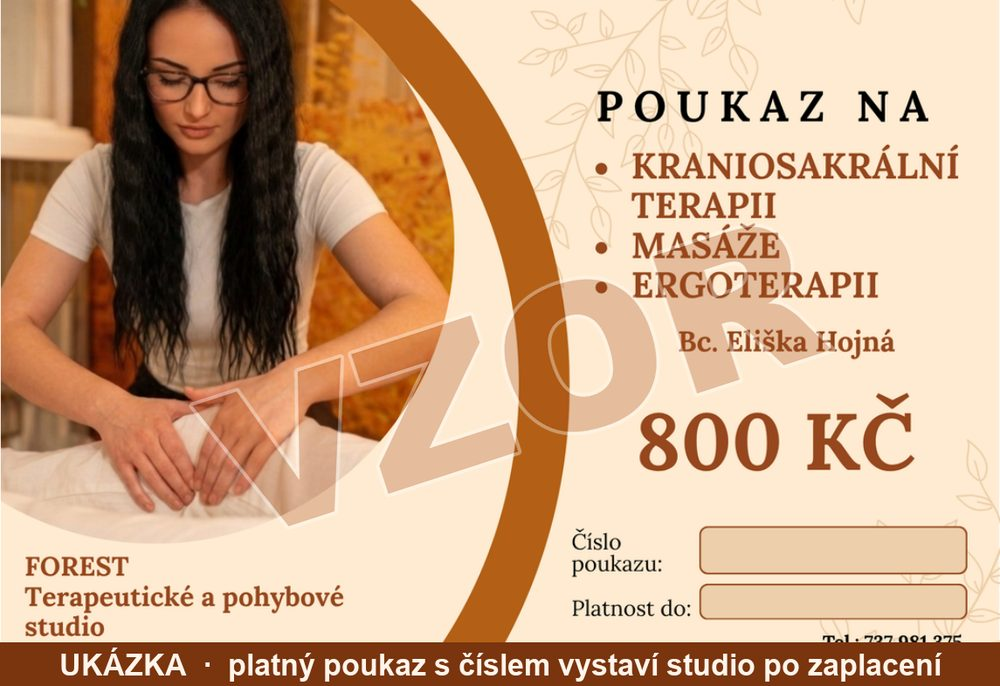
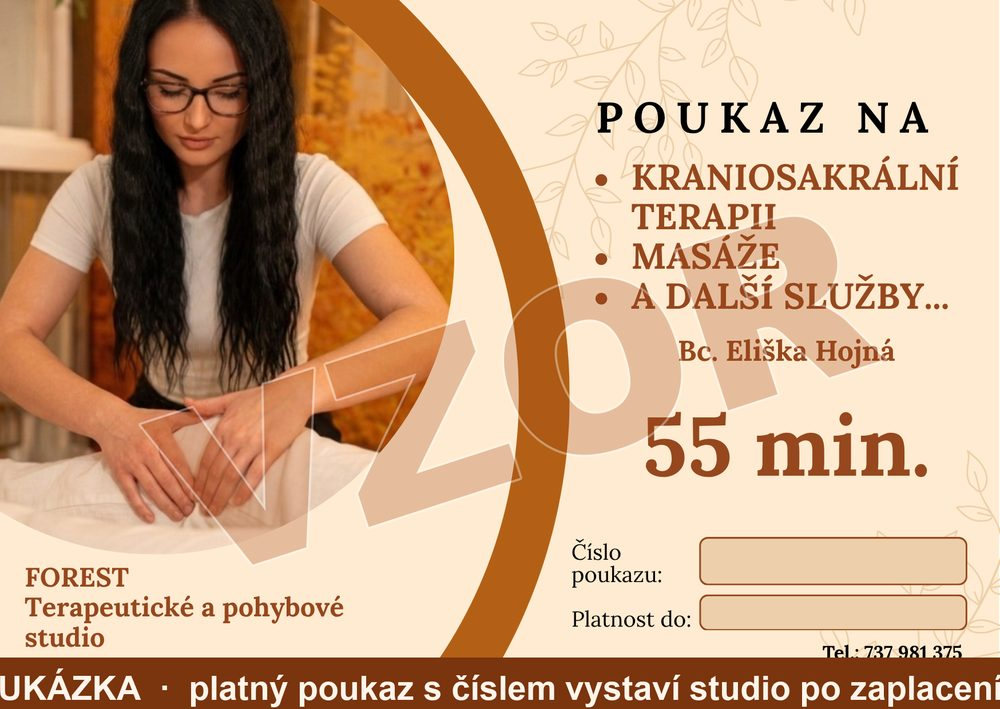
Nové dárkové poukazy (55 minut) a tejpování během terapie v ceníku
- Vyměněny oba poukazy za novou verzi od klienta: hodnotou je nově
  55 minut místo 800 Kč, služby „a další služby…" místo výčtu
- Podle toho upraveny karty, podnadpis sekce, alt texty a hero karta
- Z poukazu zmizela cena → do kroku 1 doplněn odkaz na ceník
- Náhledy opět jen s vodoznakem VZOR a pruhem UKÁZKA (originál na web nejde)
- Ceník: nový řádek Tejpování během terapie — 3 Kč/cm

diff --git a/index.html b/index.html
@@ -150,7 +150,7 @@
     }
     </script>
 
-    <link rel="stylesheet" href="css/style.css?v=13">
+    <link rel="stylesheet" href="css/style.css?v=14">
 </head>
 <body>
 
@@ -282,7 +282,7 @@
                 <span class="hero-info-icon" aria-hidden="true">
                     <svg width="20" height="20" viewBox="0 0 24 24" fill="none" stroke="currentColor" stroke-width="2" stroke-linecap="round" stroke-linejoin="round"><polyline points="20 12 20 22 4 22 4 12"/><rect x="2" y="7" width="20" height="5"/><line x1="12" y1="22" x2="12" y2="7"/><path d="M12 7H7.5a2.5 2.5 0 0 1 0-5C11 2 12 7 12 7z"/><path d="M12 7h4.5a2.5 2.5 0 0 0 0-5C13 2 12 7 12 7z"/></svg>
                 </span>
-                <span class="hero-info-text"><strong>Dárkové poukazy</strong><span>800 Kč</span></span>
+                <span class="hero-info-text"><strong>Dárkové poukazy</strong><span>55 minut</span></span>
             </a>
         </aside>
     </div>
@@ -612,6 +612,11 @@
                         <td>Tejpování (tejp v&nbsp;ceně)</td>
                         <td class="price-cell">500 Kč</td>
                         <td class="duration-cell">25 min</td>
+                    </tr>
+                    <tr>
+                        <td>Tejpování během terapie</td>
+                        <td class="price-cell">3&nbsp;Kč/cm</td>
+                        <td class="duration-cell">—</td>
                     </tr>
                 </tbody>
             </table>
@@ -951,30 +956,30 @@
         <header class="section-header">
             <span class="section-tag">Dárkové poukazy</span>
             <h2>Darujte péči o&nbsp;tělo</h2>
-            <p>Poukaz na terapii nebo masáž v&nbsp;hodnotě 800&nbsp;Kč — dárek, který potěší tělo i&nbsp;hlavu.</p>
+            <p>Poukaz na 55&nbsp;minut terapie nebo masáže podle vlastního výběru — dárek, který potěší tělo i&nbsp;hlavu.</p>
         </header>
 
         <div class="voucher-grid">
 
             <article class="voucher-card" data-animate>
                 <picture>
-                    <source srcset="fotky/poukaz-eliska-vzor.webp" type="image/webp">
+                    <source srcset="fotky/poukaz-eliska-vzor.webp?v=2" type="image/webp">
                     <img
-                        src="fotky/poukaz-eliska-vzor.jpg"
-                        alt="Vzor dárkového poukazu na kraniosakrální terapii, masáže a ergoterapii u Bc. Elišky Hojné"
+                        src="fotky/poukaz-eliska-vzor.jpg?v=2"
+                        alt="Vzor dárkového poukazu na 55 minut kraniosakrální terapie, masáže a dalších služeb u Bc. Elišky Hojné"
                         class="voucher-img"
                         loading="lazy"
                         width="1000"
-                        height="686"
+                        height="709"
                     >
                 </picture>
                 <div class="voucher-body">
                     <div class="voucher-head">
                         <div>
                             <h3>Bc. Eliška Hojná</h3>
-                            <p class="voucher-services">Kraniosakrální terapie · masáže · ergoterapie</p>
+                            <p class="voucher-services">Kraniosakrální terapie · masáže · a&nbsp;další služby</p>
                         </div>
-                        <span class="voucher-price">800&nbsp;Kč</span>
+                        <span class="voucher-price">55&nbsp;minut</span>
                     </div>
                     <a href="tel:+420737981375" class="btn btn-primary btn-full">
                         <svg width="18" height="18" viewBox="0 0 24 24" fill="none" stroke="currentColor" stroke-width="2" stroke-linecap="round" stroke-linejoin="round" aria-hidden="true"><path d="M22 16.92v3a2 2 0 0 1-2.18 2 19.79 19.79 0 0 1-8.63-3.07A19.5 19.5 0 0 1 4.69 12 19.79 19.79 0 0 1 1.61 3.37 2 2 0 0 1 3.6 1.18h3a2 2 0 0 1 2 1.72c.127.96.361 1.903.7 2.81a2 2 0 0 1-.45 2.11L7.91 8.9a16 16 0 0 0 6 6l.95-.95a2 2 0 0 1 2.11-.45 12.84 12.84 0 0 0 2.81.7A2 2 0 0 1 22 16.92z"/></svg>
@@ -985,10 +990,10 @@
 
             <article class="voucher-card" data-animate>
                 <picture>
-                    <source srcset="fotky/poukaz-adam-vzor.webp" type="image/webp">
+                    <source srcset="fotky/poukaz-adam-vzor.webp?v=2" type="image/webp">
                     <img
-                        src="fotky/poukaz-adam-vzor.jpg"
-                        alt="Vzor dárkového poukazu na fyzioterapii a masáže u Mgr. Adama Krbečka"
+                        src="fotky/poukaz-adam-vzor.jpg?v=2"
+                        alt="Vzor dárkového poukazu na 55 minut fyzioterapie, masáže a dalších služeb u Mgr. Adama Krbečka"
                         class="voucher-img"
                         loading="lazy"
                         width="1000"
@@ -999,9 +1004,9 @@
                     <div class="voucher-head">
                         <div>
                             <h3>Mgr. Adam Krbeček</h3>
-                            <p class="voucher-services">Fyzioterapie · masáže</p>
+                            <p class="voucher-services">Fyzioterapie · masáže · a&nbsp;další služby</p>
                         </div>
-                        <span class="voucher-price">800&nbsp;Kč</span>
+                        <span class="voucher-price">55&nbsp;minut</span>
                     </div>
                     <a href="tel:+420774839093" class="btn btn-primary btn-full">
                         <svg width="18" height="18" viewBox="0 0 24 24" fill="none" stroke="currentColor" stroke-width="2" stroke-linecap="round" stroke-linejoin="round" aria-hidden="true"><path d="M22 16.92v3a2 2 0 0 1-2.18 2 19.79 19.79 0 0 1-8.63-3.07A19.5 19.5 0 0 1 4.69 12 19.79 19.79 0 0 1 1.61 3.37 2 2 0 0 1 3.6 1.18h3a2 2 0 0 1 2 1.72c.127.96.361 1.903.7 2.81a2 2 0 0 1-.45 2.11L7.91 8.9a16 16 0 0 0 6 6l.95-.95a2 2 0 0 1 2.11-.45 12.84 12.84 0 0 0 2.81.7A2 2 0 0 1 22 16.92z"/></svg>
@@ -1015,7 +1020,7 @@
         <div class="voucher-how" data-animate>
             <h3>Jak poukaz získat</h3>
             <ol class="voucher-steps">
-                <li><span>1</span>Zavolejte nebo napište SMS terapeutovi, u&nbsp;kterého chcete poukaz darovat.</li>
+                <li><span>1</span>Zavolejte nebo napište SMS terapeutovi, u&nbsp;kterého chcete poukaz darovat. Cena se řídí vybranou službou — viz <a href="#cenik">ceník</a>.</li>
                 <li><span>2</span>Po&nbsp;zaplacení vám poukaz vystavíme — s&nbsp;jedinečným číslem a&nbsp;datem platnosti.</li>
                 <li><span>3</span>Obdarovaný si domluví termín a&nbsp;poukaz přinese s&nbsp;sebou.</li>
             </ol>

diff --git a/css/style.css b/css/style.css
@@ -1594,7 +1594,7 @@ h1 em { font-style: normal; color: var(--primary); }
 .voucher-img {
     width: 100%;
     height: auto;
-    aspect-ratio: 1000 / 700;
+    aspect-ratio: 1000 / 709;
     object-fit: cover;
     object-position: top;
     border-bottom: 1px solid var(--border);
@@ -2775,6 +2775,14 @@ h1 em { font-style: normal; color: var(--primary); }
     box-shadow: inset 0 0 0 1px rgba(255,255,255,0.09);
 }
 .section-dark .voucher-steps li { color: rgba(255,255,255,0.82); }
+.section-dark .voucher-steps a,
+.voucher-steps a {
+    color: var(--primary-light);
+    font-weight: 600;
+    text-decoration: underline;
+    text-underline-offset: 3px;
+}
+.voucher-steps a:hover { color: #fff; }
 .section-dark .voucher-steps li span {
     background: rgba(217,107,31,0.16);
     border-color: rgba(217,107,31,0.4);

diff --git a/fyzioterapie/index.html b/fyzioterapie/index.html
@@ -144,7 +144,7 @@
     }
     </script>
 
-    <link rel="stylesheet" href="../css/style.css?v=13">
+    <link rel="stylesheet" href="../css/style.css?v=14">
 </head>
 <body>
 

diff --git a/kraniosakralni-terapie/index.html b/kraniosakralni-terapie/index.html
@@ -144,7 +144,7 @@
     }
     </script>
 
-    <link rel="stylesheet" href="../css/style.css?v=13">
+    <link rel="stylesheet" href="../css/style.css?v=14">
 </head>
 <body>
 

diff --git a/masaze/index.html b/masaze/index.html
@@ -138,7 +138,7 @@
     }
     </script>
 
-    <link rel="stylesheet" href="../css/style.css?v=13">
+    <link rel="stylesheet" href="../css/style.css?v=14">
 </head>
 <body>
 
